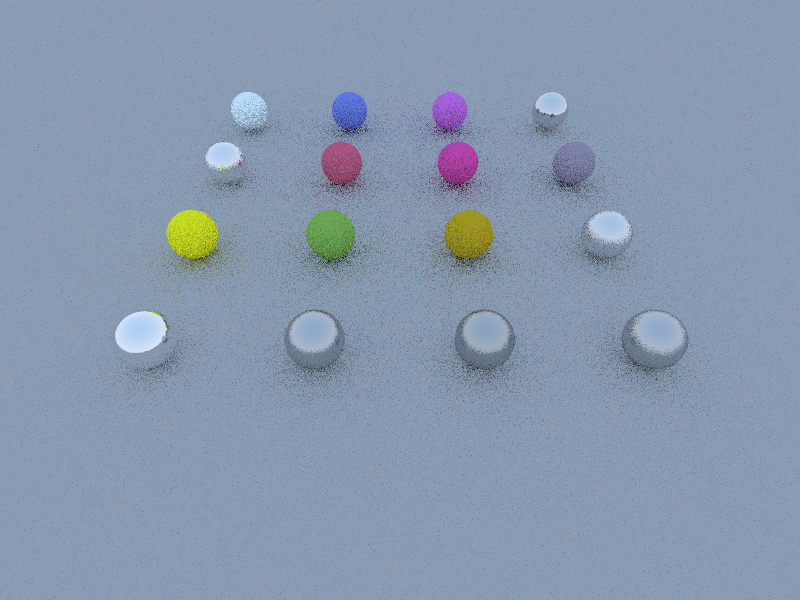
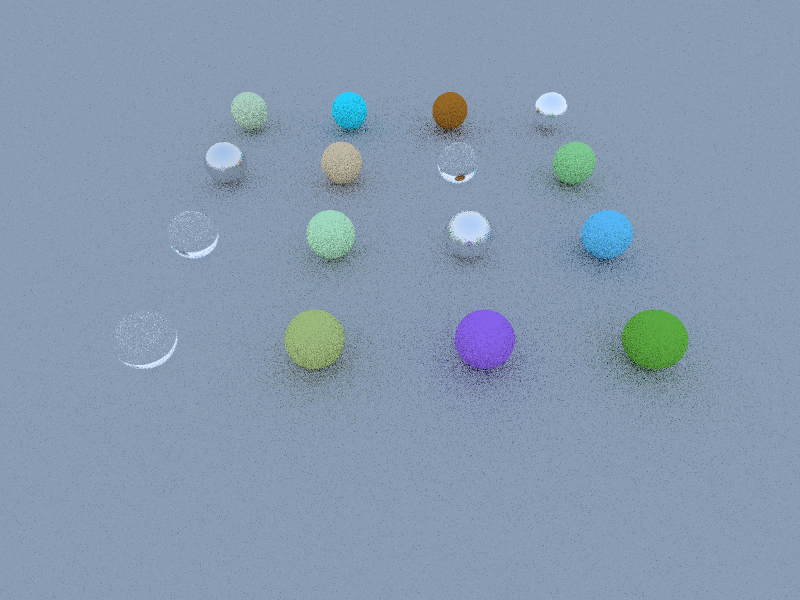
fix: constant CPU raydepth

diff --git a/src/Raytracer.h b/src/Raytracer.h
@@ -9,11 +9,7 @@ class Raytracer {
 public:
 
 	Raytracer(int width, int height, const glm::vec3& camPos, const glm::vec3& lookAt, float fov, float aperture, float focusDistance);
-	void Draw();
-
-	/*
-		This function is depricated. It causes bugs due to compute time timeout, and doesn't support more than a few hundred spheres.
-	*/
+	void DrawCPU();
 	void DrawGPU();
 
 	int m_Width = 0;

diff --git a/src/World.h b/src/World.h
@@ -8,7 +8,7 @@
 class World {
 public:
 
-	glm::vec3 GetRayColor(const Ray& ray, int depth = 50) const;
+	glm::vec3 GetRayColor(const Ray& ray, int depth = 10) const;
 	void Add(const std::shared_ptr<Hittable>& obj);
 	void Clear();
 

diff --git a/src/Raytracer.cpp b/src/Raytracer.cpp
@@ -16,7 +16,7 @@ Raytracer::Raytracer(int width, int height, const glm::vec3& camPos, const glm::
 	
 }
 
-void Raytracer::Draw()
+void Raytracer::DrawCPU()
 {
 	Camera.Update();
 	for (int y = 0; y < m_Height; y++) {
